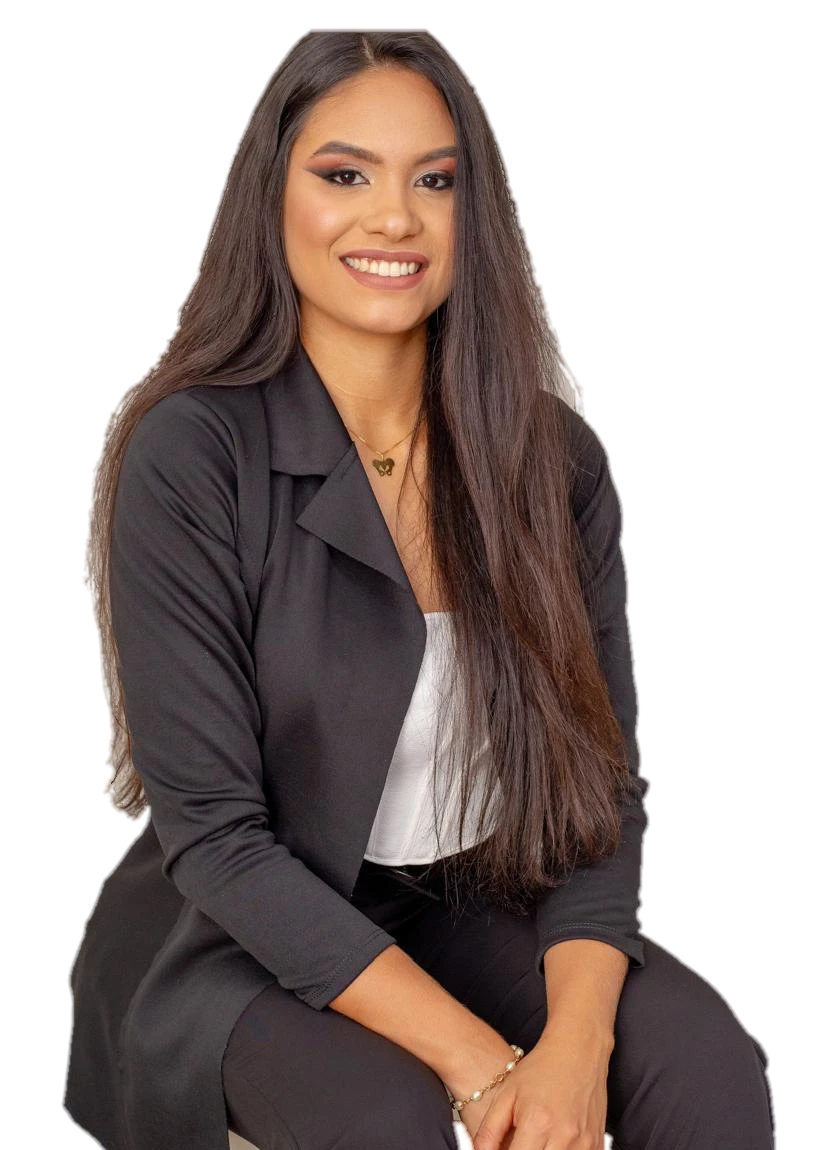
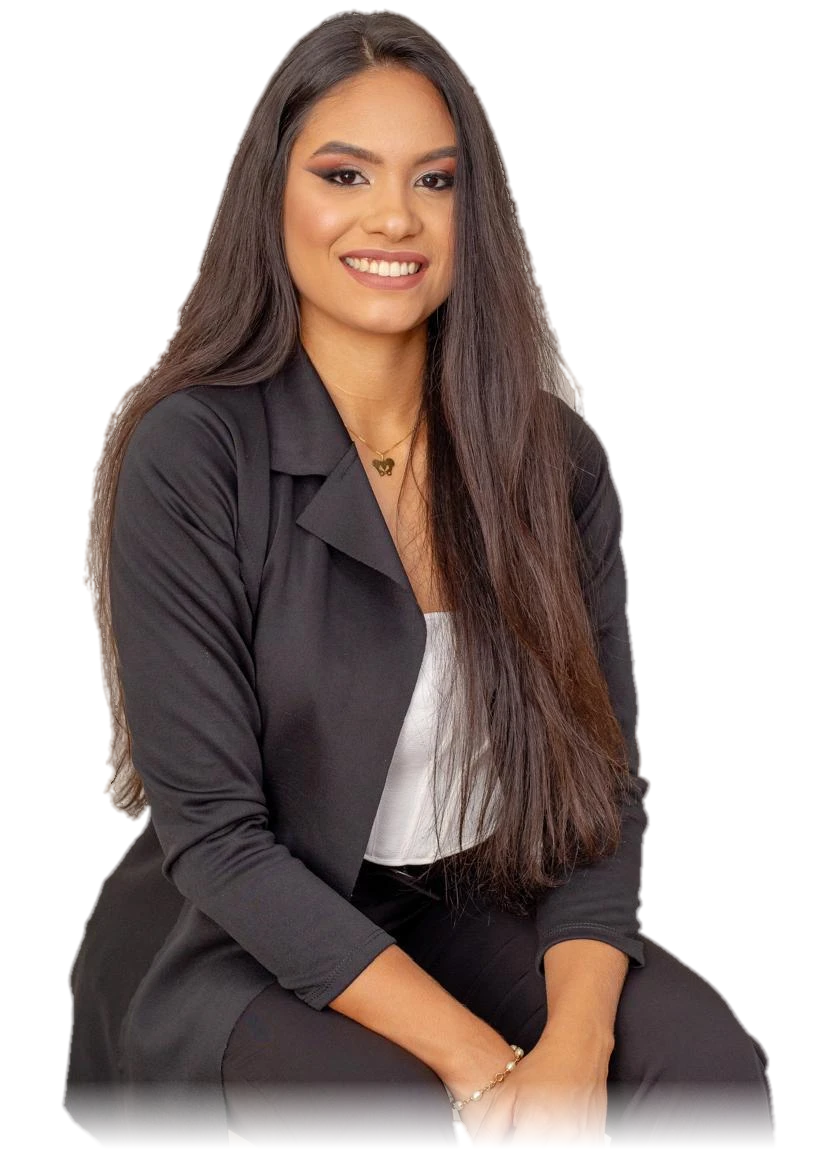
Hero: recorte com cabeça inteira, cenário integrado à foto e sem o balão

Changed region(s): [[0.0606, 0.9435, 0.9394, 1.0], [0.3636, 0.0, 0.5152, 0.0304]]

diff --git a/src/components/ui/Portrait.tsx b/src/components/ui/Portrait.tsx
@@ -25,7 +25,7 @@ export function Portrait({
   if (photo?.alpha)
     return (
       <>
-        <ArchBackdrop />
+        <ArchBackdrop photo />
         <Photo photo={photo} sizes={sizes} priority={priority} className={className} />
       </>
     );
@@ -34,7 +34,7 @@ export function Portrait({
 }
 
 /** Cenário em arco (areia, sol cacau, ondas e fios): fundo da foto recortada e placeholder sem foto. */
-function ArchBackdrop({ letter = false }: { letter?: boolean }) {
+function ArchBackdrop({ letter = false, photo = false }: { letter?: boolean; photo?: boolean }) {
   return (
     <svg
       viewBox="0 0 480 600"
@@ -49,23 +49,21 @@ function ArchBackdrop({ letter = false }: { letter?: boolean }) {
         </linearGradient>
       </defs>
       <rect width="480" height="600" fill="url(#arch-sky)" />
-      <circle cx="352" cy="176" r="96" fill="#735C4C" />
-      <path d="M-20 600V420c70-60 150-70 230-30s170 40 270-20v230Z" fill="#B1977C" />
-      <path d="M-20 600V500c90-40 170-30 250 10s150 30 250-10v100Z" fill="#EEE4D5" />
-      <path
-        d="M70 600V300a170 170 0 0 1 340 0v300"
-        fill="none"
-        stroke="#FCF8F1"
-        strokeWidth="1.5"
-        opacity=".85"
-      />
-      <path
-        d="M110 600V310a130 130 0 0 1 260 0v290"
-        fill="none"
-        stroke="#372C27"
-        strokeWidth="1"
-        opacity=".35"
-      />
+      {photo ? (
+        <>
+          <circle cx="330" cy="206" r="108" fill="#735C4C" />
+          <path d="M-20 600V478c80-40 160-36 240-6s160 30 280-14v142Z" fill="#B1977C" opacity=".85" />
+          <path d="M-20 600V536c90-30 170-22 250 8s150 20 250-12v68Z" fill="#EEE4D5" />
+        </>
+      ) : (
+        <>
+          <circle cx="352" cy="176" r="96" fill="#735C4C" />
+          <path d="M-20 600V420c70-60 150-70 230-30s170 40 270-20v230Z" fill="#B1977C" />
+          <path d="M-20 600V500c90-40 170-30 250 10s150 30 250-10v100Z" fill="#EEE4D5" />
+          <path d="M70 600V300a170 170 0 0 1 340 0v300" fill="none" stroke="#FCF8F1" strokeWidth="1.5" opacity=".85" />
+          <path d="M110 600V310a130 130 0 0 1 260 0v290" fill="none" stroke="#372C27" strokeWidth="1" opacity=".35" />
+        </>
+      )}
       {letter && (
         <text
           x="240"

diff --git a/src/components/sections/Hero.tsx b/src/components/sections/Hero.tsx
@@ -68,16 +68,6 @@ export function Hero({ lang }: { lang: Lang }) {
               <Portrait slot="hero" priority sizes="(min-width: 1024px) 40vw, 90vw" />
             </div>
           </RevealImage>
-          <FadeInSection
-            intro
-            delay={1}
-            className="absolute -left-3 bottom-10 max-w-[13rem] rounded-2xl bg-vanilla px-5 py-4 text-sm leading-snug text-cocoa-deep shadow-[var(--shadow-soft)] sm:-left-8"
-          >
-            <span className="block font-display text-xl italic text-cocoa">
-              {t.cardTitle}
-            </span>
-            {t.cardText}
-          </FadeInSection>
         </div>
       </div>
     </section>

diff --git a/src/components/ui/Photo.tsx b/src/components/ui/Photo.tsx
@@ -34,7 +34,7 @@ export function Photo({ photo, sizes, priority = false, className = "" }: Props)
         loading={priority ? "eager" : "lazy"}
         fetchPriority={priority ? "high" : "auto"}
         decoding={priority ? "sync" : "async"}
-        className={`absolute inset-0 h-full w-full ${photo.alpha ? "object-contain" : "object-cover"} ${className}`}
+        className={`absolute w-full ${photo.alpha ? "inset-x-0 bottom-0 h-[92%] object-contain" : "inset-0 h-full object-cover"} ${className}`}
         style={{ objectPosition: photo.alpha ? "50% 100%" : `${x}% ${y}%` }}
       />
     </picture>

diff --git a/src/i18n/en.ts b/src/i18n/en.ts
@@ -48,8 +48,6 @@ export const en: Dict = {
     lead: "Pelvic physiotherapy for men and women, with individual assessment, attentive listening and full respect for your privacy.",
     about: "See my work",
     points: ["Every step explained", "Professional confidentiality", "For men and women"],
-    cardTitle: "Individual assessment",
-    cardText: "Every step explained, at your pace.",
   },
 
   intro: {

diff --git a/src/i18n/pt.ts b/src/i18n/pt.ts
@@ -58,8 +58,6 @@ export const pt = {
     lead: "Fisioterapia pélvica para homens e mulheres, com avaliação individual, escuta atenta e total respeito à sua privacidade.",
     about: "Conheça meu trabalho",
     points: ["Etapas explicadas", "Sigilo profissional", "Para homens e mulheres"],
-    cardTitle: "Avaliação individual",
-    cardText: "Cada etapa explicada, no seu ritmo.",
   },
 
   intro: {

diff --git a/src/i18n/es.ts b/src/i18n/es.ts
@@ -48,8 +48,6 @@ export const es: Dict = {
     lead: "Fisioterapia pélvica para hombres y mujeres, con evaluación individual, escucha atenta y total respeto por tu privacidad.",
     about: "Conoce mi trabajo",
     points: ["Etapas explicadas", "Secreto profesional", "Para hombres y mujeres"],
-    cardTitle: "Evaluación individual",
-    cardText: "Cada etapa explicada, a tu ritmo.",
   },
 
   intro: {

diff --git a/design/brand/cutout.py b/design/brand/cutout.py
@@ -14,7 +14,7 @@ dist = np.linalg.norm(src.astype(np.float32) - bg.astype(np.float32), axis=2)
 mask = np.full((h, w), cv2.GC_PR_BGD, np.uint8)
 mask[dist > 38] = cv2.GC_PR_FGD
 mask[dist > 85] = cv2.GC_FGD
-mask[:30, :] = cv2.GC_BGD
+mask[:4, :] = cv2.GC_BGD  # só a linha de borda: o topo do cabelo fica quase colado ao topo da foto
 mask[:, :12] = cv2.GC_BGD
 mask[:, -12:] = cv2.GC_BGD
 bgd, fgd = np.zeros((1, 65)), np.zeros((1, 65))
